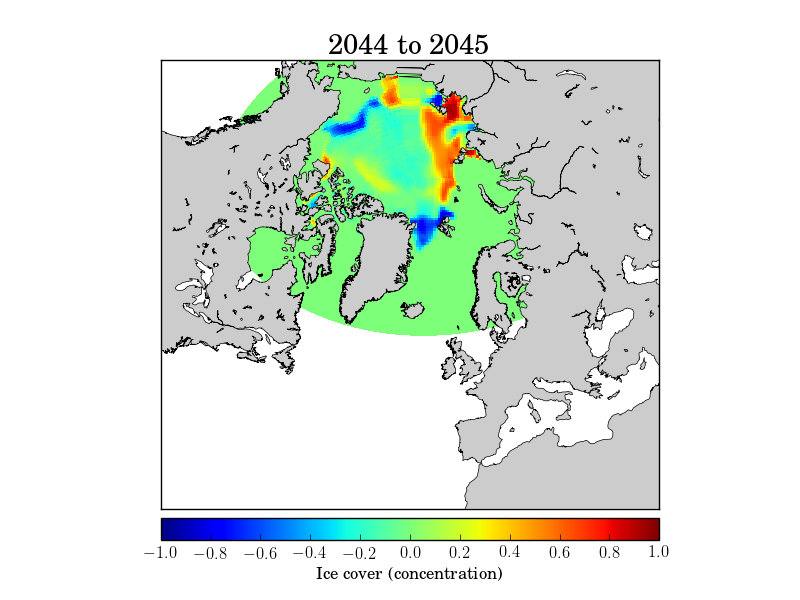
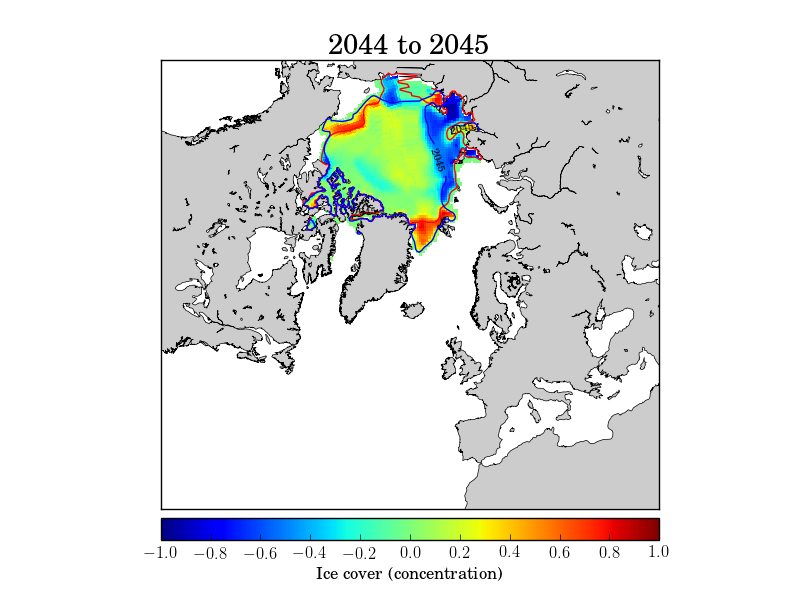
sea ice concentration anomalies from 2040 to 2060 + ice extension

Changed region(s): [[0.2812, 0.09, 0.6562, 0.57]]

diff --git a/Sept_Ice/basic_map.py b/Sept_Ice/basic_map.py
@@ -19,13 +19,12 @@ import loading
 var = 'IceC'
 option = 'Uncoupled'
 specificity = ''
-y1 = 2060#+140
+y1 = 2040#+140
 y2 = 2060#+140
 
 month = 'Sept'
 comparison = 'yes'
 
-title_plot =  str(specificity)+' '+str(y1)+' to '+str(y1+1)
 
 #//////////////////////////////////////////////////////////////////////////////////////////
 class From1950to2100():                                                                 #//
@@ -77,33 +76,37 @@ class From1950to2100():                                                         
 #//////////////////////////////////////////////////////////////////////////////////////////
 
 
-
-
-simu = From1950to2100(option,specificity,var,y1,y2,comparison,month)
-
-if var == 'ML' or var == 'IceC':
-  yr, xr, time = loading.extracting_coord_2D(simu.path)
-else:
-  yr, xr, time, depth = loading.extracting_coord(simu.path)
-
-VarArray_simu = loading.extracting_var(simu.path, var)
-
-index_y1 = np.min(np.where(simu.first_year+time[:]/(3600*24*364.5)>simu.y1))
-
-
-if comparison == 'no':
+   
+for i in range(0,20):
+   y1 = y1+1   
+   title_plot =  str(specificity)+' '+str(y1)+' to '+str(y1+1)
+   simu = From1950to2100(option,specificity,var,y1,y2,comparison,month)
+   
    if var == 'ML' or var == 'IceC':
-     mask = (VarArray_simu[:,:,index_y1]>0.15)
-     make_plot.plot_map(xr,yr,VarArray_simu[mask,index_y1] ,var,title_plot,simu.output_file,simu.vmin,simu.vmax)
+     yr, xr, time = loading.extracting_coord_2D(simu.path)
    else:
-     make_plot.plot_map(xr,yr,np.mean(VarArray_simu[:,:,0,index_y1:index_y2+1],axis=2) ,var,title_plot,simu.output_file,simu.vmin,simu.vmax)
-elif comparison == 'yes':
-   index_y1c = np.min(np.where(simu.first_year+time[:]/(3600*24*364.5)>simu.y1_compa))
-   if var == 'ML' or var == 'IceC':
-     #VarArray_simu[np.where(VarArray_simu==0)]=np.nan
-     make_plot.plot_map(xr,yr,VarArray_simu[:,:,index_y1]-VarArray_simu[:,:,index_y1c] ,var,title_plot,simu.output_file,simu.vmin,simu.vmax)
-   else:
-     make_plot.plot_map(xr,yr,np.mean(VarArray_simu[mask,0,index_y1:index_y2+1],axis=2)-np.mean(VarArray_simu[mask,0,index_y1c:index_y2c+1],axis=2) ,var,title_plot,simu.output_file,simu.vmin,simu.vma)
+     yr, xr, time, depth = loading.extracting_coord(simu.path)
+   
+   VarArray_simu = loading.extracting_var(simu.path, var)
+   
+   index_y1 = np.min(np.where(simu.first_year+time[:]/(3600*24*364.5)>simu.y1))
+   
+   
+   if comparison == 'no':
+      if var == 'ML' or var == 'IceC':
+        mask = (VarArray_simu[:,:,index_y1]>0.15)
+        make_plot.plot_map(xr,yr,VarArray_simu[mask,index_y1] ,var,title_plot,simu.output_file,simu.vmin,simu.vmax)
+      else:
+        make_plot.plot_map(xr,yr,np.mean(VarArray_simu[:,:,0,index_y1:index_y2+1],axis=2) ,var,title_plot,simu.output_file,simu.vmin,simu.vmax)
+   elif comparison == 'yes':
+      index_y1c = np.min(np.where(simu.first_year+time[:]/(3600*24*364.5)>simu.y1_compa))
+      if var == 'ML' or var == 'IceC':
+        array_to_plot = VarArray_simu[:,:,index_y1c]-VarArray_simu[:,:,index_y1]
+        array_to_plot[array_to_plot==0] = np.nan
+        array_to_plot = np.ma.masked_invalid(array_to_plot)
+        make_plot.plot_map_with_ice_extent(xr,yr,array_to_plot ,var,VarArray_simu[:,:,index_y1],y1,VarArray_simu[:,:,index_y1c],simu.y1_compa,title_plot,simu.output_file,simu.vmin,simu.vmax)
+      else:
+        make_plot.plot_map(xr,yr,np.mean(VarArray_simu[mask,0,index_y1:index_y2+1],axis=2)-np.mean(VarArray_simu[mask,0,index_y1c:index_y2c+1],axis=2) ,var,title_plot,simu.output_file,simu.vmin,simu.vma)
 
 
           

diff --git a/Sept_Ice/make_plot.py b/Sept_Ice/make_plot.py
@@ -86,6 +86,51 @@ def plot_map(xr,yr,variable,variable_name,title,option,vmin,vmax):
    plt.close(fig)
    return
 
+def plot_map_with_ice_extent(xr,yr,variable,variable_name,ice_ext1,y1,ice_ext2,y2,title,option,vmin,vmax):
+   # map all Atlantic and Arctic Ocean
+   # colorbar under the map: 
+   # Ice thickness, Temperature or Salinity
+   # year: age of the data
+   # time: month? yearly mean? 
+   m = Basemap(projection='lcc', resolution='l',
+            lon_0=-20, lat_0=70, lat_1=89, lat_2=50,
+            width=1.E7, height=0.9E7)
+   #m = Basemap(projection='ortho',lat_0=60,lon_0=-20,resolution='l')
+   x,y = m(xr, yr)
+
+   plt.figure(figsize=(10, 6))
+   plt.rc('text', usetex=True)
+   plt.rc('font', family='serif')
+   fig, ax = plt.subplots()
+
+   m.drawcoastlines(linewidth=0.5)
+   m.fillcontinents(color='0.8')
+
+   # Add Colorbar
+   cs = m.pcolor(x,y,variable,vmin=vmin,vmax=vmax)
+   cs2=m.contour(x, y, ice_ext1, [0.15],colors='r')
+   plt.clabel(cs2, inline=True, fmt={0.15:''},fontsize=1, colors='r')
+   cs3=m.contour(x, y, ice_ext2, [0.15],colors='b')
+   plt.clabel(cs3, inline=True, fmt={0.15:str(y2)},fontsize=8, colors='k')
+
+   cbar = m.colorbar(cs, location='bottom')
+   if variable_name=='icet':
+      cbar.ax.set_xlabel('Ice Thickness (m)')
+   elif variable_name == 'sal':
+      cbar.ax.set_xlabel('Salinity (PSU)')
+   elif variable_name =='temp':
+      cbar.ax.set_xlabel('Temperature ($^{o}$C)')
+   elif variable_name=='ML':
+      cbar.ax.set_xlabel('Mixed layer depth (m)')
+   elif variable_name=='IceC':
+      cbar.ax.set_xlabel('Ice cover (concentration)')
+   
+
+   plt.title(str(title),size=20)
+   plt.savefig(str(variable_name)+'/'+str(option.replace(".",""))+'.png')
+   plt.close(fig)
+   return
+
 def vertical_profile(var1,var2,y1,y2,variable_name,vmin,vmax,z,zmax,ocean,lat_min,name_file):
 
    i_zmax = np.max(np.where(z<zmax))
